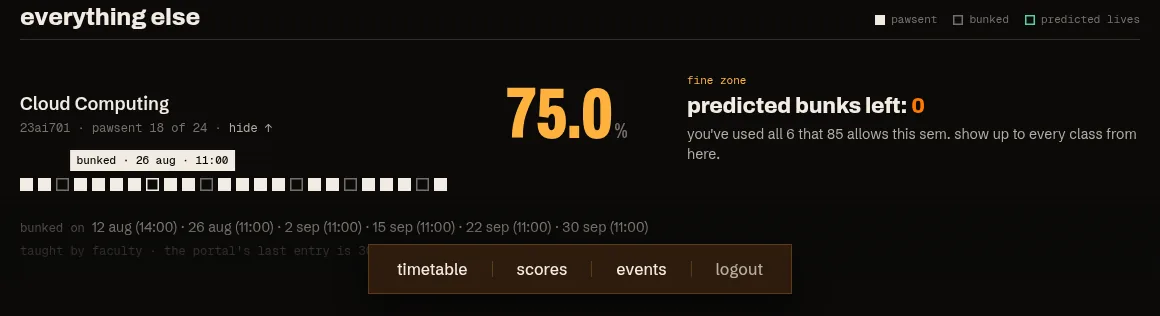
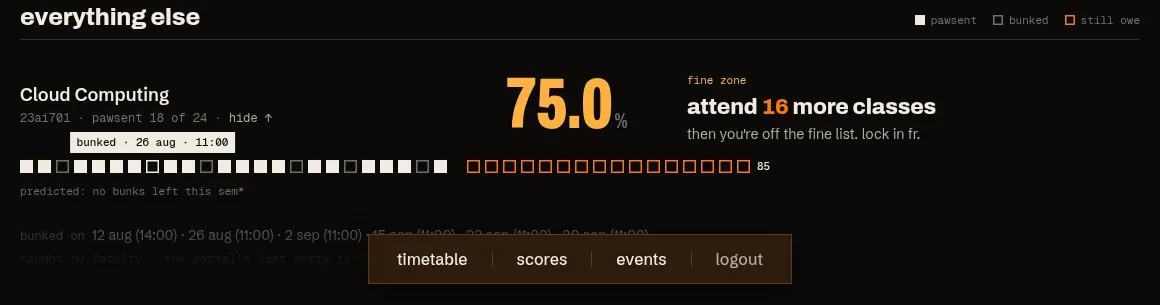
fix(web): "attend N more" is the verdict again; predicted bunks are a small extra
Max: predicting bunks in the headline talks people out of classes.
- The main verdict, colours and orange still-owe boxes are back to "attend N
  more classes" (75 / 85). The boxes keep their real class order and dates.
- Predicted bunks are one small line under every course ("predicted: 2 bunks
  left this sem*"), with the disclaimer in "facts to know": teachers rarely
  take or enter every planned class, so don't plan bunks around it.
- The green lives squares and the "predicted lives" key are gone.

Claude-Session: https://claude.ai/code/session_01Xzv7yBMPGxtcxQE7zWcD5o

diff --git a/web/src/components/Dashboard.tsx b/web/src/components/Dashboard.tsx
@@ -1,4 +1,4 @@
-import { semOf, squares } from "../lib/history";
+import { semTotal, squares } from "../lib/history";
 import type { Attendance, Course } from "../lib/types";
 import { byPercent } from "../lib/verdict";
 import { CourseRow } from "./CourseRow";
@@ -12,7 +12,7 @@ export function Dashboard({ data, open, onOpen, loading }: Props) {
   const [worst, ...rest] = byPercent(data.courses);
   const toggle = (code: string) => () => onOpen(open === code ? null : code);
   const dated = (c: Course) => squares(c.attended, c.conducted, data.history?.[c.code]?.classes);
-  const sem = (c: Course) => semOf(c, data.history?.[c.code]);
+  const total = (c: Course) => semTotal(data.history?.[c.code]);
   const panel = (code: string) =>
     open === code && (
       <div className={`border-b border-hair ${code === worst?.code ? "pt-4" : ""}`}>
@@ -21,7 +21,7 @@ export function Dashboard({ data, open, onOpen, loading }: Props) {
     );
   return (
     <>
-      {worst && <Slab course={worst} classes={dated(worst)} sem={sem(worst)} open={open === worst.code} onToggle={toggle(worst.code)} />}
+      {worst && <Slab course={worst} classes={dated(worst)} total={total(worst)} open={open === worst.code} onToggle={toggle(worst.code)} />}
       {worst && panel(worst.code)}
 
       {rest.length > 0 && (
@@ -31,16 +31,12 @@ export function Dashboard({ data, open, onOpen, loading }: Props) {
             <div aria-label="Tally key" className="flex flex-wrap gap-4 font-mono text-[11px] text-mut">
               <span className="inline-flex items-center gap-1.5"><i className="inline-block h-2.5 w-2.5 bg-ink" />pawsent</span>
               <span className="inline-flex items-center gap-1.5"><i className="inline-block h-2.5 w-2.5 shadow-[inset_0_0_0_1.5px_var(--color-mut)]" />bunked</span>
-              {rest.every((c) => sem(c)) ? (
-                <span className="inline-flex items-center gap-1.5"><i className="inline-block h-2.5 w-2.5 shadow-[inset_0_0_0_1.5px_var(--color-safe)]" />predicted lives</span>
-              ) : (
-                <span className="inline-flex items-center gap-1.5"><i className="inline-block h-2.5 w-2.5 shadow-[inset_0_0_0_1.5px_var(--color-orange)]" />still owe</span>
-              )}
+              <span className="inline-flex items-center gap-1.5"><i className="inline-block h-2.5 w-2.5 shadow-[inset_0_0_0_1.5px_var(--color-orange)]" />still owe</span>
             </div>
           </div>
           {rest.map((c) => (
             <div key={c.code}>
-              <CourseRow course={c} classes={dated(c)} sem={sem(c)} open={open === c.code} onToggle={toggle(c.code)} />
+              <CourseRow course={c} classes={dated(c)} total={total(c)} open={open === c.code} onToggle={toggle(c.code)} />
               {panel(c.code)}
             </div>
           ))}
@@ -56,6 +52,10 @@ export function Dashboard({ data, open, onOpen, loading }: Props) {
             the bill. <strong className="text-ink">we don't.</strong>
           </p>
           <p>use your own usn. stalking on someone else's is weird without their permission. don't be that guy.</p>
+          <p>
+            * predicted bunks count the classes the portal plans for the whole sem. teachers rarely take or enter all of them, so
+            it's mostly right, not a promise. <strong className="text-ink">don't plan your bunks around it.</strong>
+          </p>
         </div>
       </footer>
     </>

diff --git a/web/src/lib/verdict.test.ts b/web/src/lib/verdict.test.ts
@@ -1,5 +1,5 @@
 import { describe, expect, it } from "vitest";
-import { byPercent, semVerdict, verdict, zoneOf } from "./verdict";
+import { byPercent, predicted, verdict, zoneOf } from "./verdict";
 import type { Course } from "./types";
 
 // Numbers as the Go API returns them for the scrubbed fixture.
@@ -53,38 +53,21 @@ describe("byPercent", () => {
   });
 });
 
-describe("semVerdict (from the sem's total classes, so stale portal counts don't cause panic)", () => {
+describe("predicted (the small extra line; the main verdict stays 'attend N')", () => {
   const c = (attended: number, conducted: number) =>
     ({ code: "X", name: "X", credits: 3, attended, conducted, percent: (attended / conducted) * 100, need75: 0, need85: 0, skip85: 0 });
+  // 45 classes: 85% lets you miss 6, 75% lets you miss 11
   it("counts the bunks the whole sem still allows for 85", () => {
-    // 45 classes: 85% lets you miss 6; 5 missed → 1 left
-    const v = semVerdict(c(20, 25), 45);
-    expect(v.head).toEqual({ before: "predicted bunks left: ", n: 1, after: "" });
-    expect(v.zone).toBe("fine");
-    expect(v.sub).toBe(
-      "5 bunked so far, of the 6 that 85 allows across the sem's 45 classes. mostly right, but teachers rarely take or enter every class, so don't spend them all.",
-    );
+    expect(predicted(c(20, 25), 45)).toEqual({ n: 1, line: "predicted: 1 bunk left this sem" });
+    expect(predicted(c(10, 14), 45)).toEqual({ n: 2, line: "predicted: 2 bunks left this sem" });
   });
-  it("is calm early in the sem even when today's % looks bad", () => {
-    const v = semVerdict(c(10, 14), 45); // 71% today, but only 4 missed of the 6 allowed
-    expect(v.head.n).toBe(2);
-    expect(v.zone).toBe("fine");
-  });
-  it("is safe when you're above 85 and still have bunks", () => {
-    expect(semVerdict(c(24, 25), 45).zone).toBe("safe");
-  });
-  it("says zero when the budget is used up", () => {
-    const v = semVerdict(c(19, 25), 45);
-    expect(v.head).toEqual({ before: "predicted bunks left: ", n: 0, after: "" });
+  it("says none when the 85 budget is used up", () => {
+    expect(predicted(c(19, 25), 45)).toEqual({ n: 0, line: "predicted: no bunks left this sem" });
   });
   it("falls back to 75 once 85 is gone", () => {
-    const v = semVerdict(c(16, 25), 45); // 9 missed: 85 allowed 6, 75 allows 11
-    expect(v.head).toEqual({ before: "85's gone. predicted bunks before 75: ", n: 2, after: "" });
-    expect(v.zone).toBe("fine");
+    expect(predicted(c(16, 25), 45)).toEqual({ n: 2, line: "predicted: 85's gone, 2 bunks left before 75" });
   });
-  it("says cooked past the 75 budget", () => {
-    const v = semVerdict(c(10, 25), 45); // 15 missed > 11
-    expect(v.zone).toBe("dead");
-    expect(v.head.n).toBeNull();
+  it("says so when even 75 is out of reach", () => {
+    expect(predicted(c(10, 25), 45)).toEqual({ n: 0, line: "predicted: even 75's out of reach this sem" });
   });
 });

diff --git a/web/src/lib/verdict.ts b/web/src/lib/verdict.ts
@@ -70,45 +70,19 @@ export function byPercent(courses: Course[]): Course[] {
 }
 
 /**
- * The verdict from the whole sem instead of "classes in a row": the portal's
- * planned total for the course (holidays already left out) sets how many bunks
- * 85 (or 75) allows all sem. Calm early in the sem, and not thrown by the
- * portal being weeks behind on entering classes.
+ * The predicted bunks the whole sem still allows, from the portal's planned
+ * total (holidays already left out). An extra under each course, never the
+ * main verdict: a prediction mustn't talk anyone out of classes. Its
+ * disclaimer lives in the dashboard's "facts to know".
  */
-/** Bunks the whole sem still allows: for 85, or for 75 once 85 is gone (negative: over even 75's). */
-export function semBudget(c: Course, total: number) {
+export function predicted(c: Course, total: number): { n: number; line: string } {
   const missed = c.conducted - c.attended;
-  const allow85 = Math.floor(total * 0.15 + 1e-9);
-  const allow75 = Math.floor(total * 0.25 + 1e-9);
-  return { missed, allow85, allow75, b85: allow85 - missed, b75: allow75 - missed };
-}
-
-export function semVerdict(c: Course, total: number): Verdict {
-  const { missed, allow85, allow75, b85, b75 } = semBudget(c, total);
-  if (b85 > 0) {
-    return {
-      zone: c.percent >= 85 ? "safe" : "fine",
-      head: { before: "predicted bunks left: ", n: b85, after: "" },
-      sub: `${missed} bunked so far, of the ${allow85} that 85 allows across the sem's ${total} classes. mostly right, but teachers rarely take or enter every class, so don't spend them all.`,
-    };
-  }
-  if (b85 === 0) {
-    return {
-      zone: "fine",
-      head: { before: "predicted bunks left: ", n: 0, after: "" },
-      sub: `you've used all ${allow85} that 85 allows this sem. show up to every class from here.`,
-    };
-  }
-  if (b75 >= 0) {
-    return {
-      zone: "fine",
-      head: { before: "85's gone. predicted bunks before 75: ", n: b75, after: "" },
-      sub: `${missed} missed, 85 only allowed ${allow85}. that's the fine. it's a prediction, so hold 75 with room to spare.`,
-    };
-  }
-  return {
-    zone: "dead",
-    head: { before: "cooked for the sem", n: null, after: "" },
-    sub: `${missed} missed, more than the ${allow75} even 75 allows. talk to your faculty.`,
-  };
+  const b85 = Math.floor(total * 0.15 + 1e-9) - missed;
+  const b75 = Math.floor(total * 0.25 + 1e-9) - missed;
+  const bunks = (n: number) => `${n} ${n === 1 ? "bunk" : "bunks"}`;
+  if (b85 > 0) return { n: b85, line: `predicted: ${bunks(b85)} left this sem` };
+  if (b85 === 0) return { n: 0, line: "predicted: no bunks left this sem" };
+  if (b75 > 0) return { n: b75, line: `predicted: 85's gone, ${bunks(b75)} left before 75` };
+  if (b75 === 0) return { n: 0, line: "predicted: 85's gone, no bunks left before 75" };
+  return { n: 0, line: "predicted: even 75's out of reach this sem" };
 }

diff --git a/web/src/components/Tally.tsx b/web/src/components/Tally.tsx
@@ -2,14 +2,12 @@ import { isoDayMonth } from "../lib/dates";
 import type { ClassRecord, Course } from "../lib/types";
 import type { Zone } from "../lib/verdict";
 
-/** Bunks the sem still allows: shown as lives instead of "classes in a row" squares. */
-type Budget = { n: number; label: string };
-type Props = { course: Course; zone: Zone; classes?: ClassRecord[] | null; budget?: Budget | null; onSlab?: boolean; pop?: boolean; className?: string };
+type Props = { course: Course; zone: Zone; classes?: ClassRecord[] | null; onSlab?: boolean; pop?: boolean; className?: string };
 
 const tip = (c: ClassRecord) => `${c.present ? "pawsent" : "bunked"} · ${isoDayMonth(c.date)} · ${c.start}`;
 
 /** One square per class: filled = attended, hollow = bunked, orange outline = classes still owed. */
-export function Tally({ course: c, zone, classes, budget, onSlab, pop, className = "" }: Props) {
+export function Tally({ course: c, zone, classes, onSlab, pop, className = "" }: Props) {
   const sq: React.ReactNode[] = [];
   let k = 0;
   if (classes) {
@@ -25,13 +23,7 @@ export function Tally({ course: c, zone, classes, budget, onSlab, pop, className
     sq.push(<b key={`${prefix}l`}>{label}</b>);
   };
 
-  if (budget) {
-    if (budget.n > 0) {
-      sq.push(<span key="g" className="gap" />);
-      for (let i = 0; i < budget.n; i++) sq.push(<i key={`s${i}`} className="sk" />);
-      sq.push(<b key="sl">{budget.label}</b>);
-    }
-  } else if (zone === "dead") {
+  if (zone === "dead") {
     sq.push(<span key="g" className="gap" />);
     owe(c.need75, "75", "n");
     owe(c.need85 - c.need75, "85", "f");
@@ -45,7 +37,7 @@ export function Tally({ course: c, zone, classes, budget, onSlab, pop, className
   }
 
   const label = `${c.attended} attended, ${c.conducted - c.attended} bunked` +
-    (budget ? `, ${Math.max(0, budget.n)} more bunks the sem allows` : zone === "dead" ? `, ${c.need75} more to reach 75, ${c.need85} to reach 85` : zone === "fine" ? `, ${c.need85} more to reach 85` : "");
+    (zone === "dead" ? `, ${c.need75} more to reach 75, ${c.need85} to reach 85` : zone === "fine" ? `, ${c.need85} more to reach 85` : "");
 
   return (
     <div role="img" aria-label={label} className={`tally ${onSlab ? "on-slab" : ""} ${pop ? "pop" : ""} ${className}`}>

diff --git a/web/src/components/CourseRow.tsx b/web/src/components/CourseRow.tsx
@@ -1,6 +1,5 @@
 import type { ClassRecord, Course } from "../lib/types";
-import type { Sem } from "../lib/history";
-import { fmtPct, semVerdict, verdict, zoneName } from "../lib/verdict";
+import { fmtPct, predicted, verdict, zoneName } from "../lib/verdict";
 import { Headline } from "./Headline";
 import { Tally } from "./Tally";
 
@@ -21,10 +20,11 @@ export const toggleProps = (open: boolean, onToggle: () => void, label: string) 
   },
 });
 
-type RowProps = { course: Course; classes: ClassRecord[] | null; sem: Sem | null; open: boolean; onToggle: () => void };
+type RowProps = { course: Course; classes: ClassRecord[] | null; total: number | null; open: boolean; onToggle: () => void };
 
-export function CourseRow({ course, classes, sem, open, onToggle }: RowProps) {
-  const v = sem ? semVerdict(course, sem.total) : verdict(course);
+export function CourseRow({ course, classes, total, open, onToggle }: RowProps) {
+  const v = verdict(course);
+  const guess = total ? predicted(course, total) : null; // an extra, never the main verdict
   return (
     <div
       {...toggleProps(open, onToggle, `${course.name}: ${open ? "hide" : "show"} every class`)}
@@ -48,7 +48,8 @@ export function CourseRow({ course, classes, sem, open, onToggle }: RowProps) {
         </b>
         <span className="mt-1 block text-sm text-ink-2">{v.sub}</span>
       </div>
-      <Tally course={course} zone={v.zone} classes={classes} budget={sem?.budget} className="col-span-full text-ink" />
+      <Tally course={course} zone={v.zone} classes={classes} className="col-span-full text-ink" />
+      {guess && <p className="col-span-full -mt-1.5 font-mono text-[11px] text-mut">{guess.line}*</p>}
     </div>
   );
 }

diff --git a/web/src/components/Slab.tsx b/web/src/components/Slab.tsx
@@ -1,7 +1,6 @@
 import { useEffect, useState } from "react";
 import type { ClassRecord, Course } from "../lib/types";
-import type { Sem } from "../lib/history";
-import { fmtPct, semVerdict, verdict, zoneName } from "../lib/verdict";
+import { fmtPct, predicted, verdict, zoneName } from "../lib/verdict";
 import { Headline } from "./Headline";
 import { toggleProps } from "./CourseRow";
 import { Tally } from "./Tally";
@@ -28,10 +27,11 @@ function useCountUp(target: number): number {
 }
 
 /** Your worst subject, as a slab in its zone's color. */
-type SlabProps = { course: Course; classes: ClassRecord[] | null; sem: Sem | null; open: boolean; onToggle: () => void };
+type SlabProps = { course: Course; classes: ClassRecord[] | null; total: number | null; open: boolean; onToggle: () => void };
 
-export function Slab({ course, classes, sem, open, onToggle }: SlabProps) {
-  const v = sem ? semVerdict(course, sem.total) : verdict(course);
+export function Slab({ course, classes, total, open, onToggle }: SlabProps) {
+  const v = verdict(course);
+  const guess = total ? predicted(course, total) : null; // an extra, never the main verdict
   const shown = useCountUp(course.percent);
 
   return (
@@ -72,7 +72,8 @@ export function Slab({ course, classes, sem, open, onToggle }: SlabProps) {
         )}
       </div>
 
-      <Tally course={course} zone={v.zone} classes={classes} budget={sem?.budget} onSlab pop className="col-span-full mt-5" />
+      <Tally course={course} zone={v.zone} classes={classes} onSlab pop className="col-span-full mt-5" />
+      {guess && <p className="col-span-full -mt-4 font-mono text-[11px] opacity-70 md:mt-2">{guess.line}*</p>}
     </section>
   );
 }

diff --git a/web/src/lib/history.test.ts b/web/src/lib/history.test.ts
@@ -1,24 +1,17 @@
 import { describe, expect, it } from "vitest";
-import { semOf, squares } from "./history";
+import { semTotal, squares } from "./history";
 import { partLabel, seeMin } from "./scores";
 import type { ClassRecord } from "./types";
 
 const cls = (date: string, present = true, start = "11:00"): ClassRecord => ({ date, start, end: "12:00", present });
 
-describe("semOf", () => {
-  const course = (attended: number, conducted: number) =>
-    ({ code: "X", name: "X", credits: 3, attended, conducted, percent: (attended / conducted) * 100, need75: 0, need85: 0, skip85: 0 });
+describe("semTotal", () => {
   const hist = (present: number, absent: number, stillToGo: number) =>
     ({ code: "X", name: "X", faculty: "", present, absent, stillToGo, classes: [] });
-  it("takes the sem total from the portal's plan and turns the bunks left into lives", () => {
-    expect(semOf(course(20, 25), hist(20, 5, 20))).toEqual({ total: 45, budget: { n: 1, label: "life" } });
-  });
-  it("counts toward 75 once 85 is gone, and nothing past that", () => {
-    expect(semOf(course(16, 25), hist(16, 9, 20))?.budget).toEqual({ n: 2, label: "before 75" });
-    expect(semOf(course(10, 25), hist(10, 15, 20))?.budget).toEqual({ n: 0, label: "" });
-  });
-  it("needs the history", () => {
-    expect(semOf(course(20, 25), undefined)).toBeNull();
+  it("is the portal's plan for the sem: present + absent + still to go", () => {
+    expect(semTotal(hist(20, 5, 20))).toBe(45);
+    expect(semTotal(hist(0, 0, 0))).toBeNull();
+    expect(semTotal(undefined)).toBeNull();
   });
 });
 

diff --git a/web/src/lib/history.ts b/web/src/lib/history.ts
@@ -1,16 +1,10 @@
-import type { ClassRecord, Course, CourseHistory } from "./types";
-import { semBudget } from "./verdict";
+import type { ClassRecord, CourseHistory } from "./types";
 
-/** The sem view of a course once its history is in: the planned total, and the bunks it allows. */
-export type Sem = { total: number; budget: { n: number; label: string } };
-
-export function semOf(c: Course, h: CourseHistory | null | undefined): Sem | null {
+/** The portal's planned classes for the whole sem (holidays already left out), once the history is in. */
+export function semTotal(h: CourseHistory | null | undefined): number | null {
   if (!h) return null;
-  const total = h.present + h.absent + h.stillToGo; // the portal's plan for the sem, holidays already left out
-  if (total <= 0) return null;
-  const b = semBudget(c, total);
-  const budget = b.b85 >= 0 ? { n: b.b85, label: b.b85 === 1 ? "life" : "lives" } : b.b75 >= 0 ? { n: b.b75, label: "before 75" } : { n: 0, label: "" };
-  return { total, budget };
+  const total = h.present + h.absent + h.stillToGo;
+  return total > 0 ? total : null;
 }
 
 /**

diff --git a/CLAUDE.md b/CLAUDE.md
@@ -58,11 +58,12 @@ Full plan & confirmed portal facts: `~/.claude/plans/meowance-attendance-portal.
 ## Conventions
 
 - **MCE rules:** 85%+ safe ("purring"); 75–85 fine zone (pays a fine unless back to 85); under 75 dead
-  zone (teachers cap at 75). Verdicts count **classes**, never days. Once a course's history
-  is in, the verdict uses the portal's planned total for the sem (present + absent + still to go,
-  holidays already left out; checked against the real calendar 2026-11-13): "you can bunk N more
-  this sem" = 15% of the total minus bunks so far. Never "attend N to stay": the portal is often
-  weeks behind on entering classes, so its "still to go" count is stale.
+  zone (teachers cap at 75). Verdicts count **classes**, never days. The main verdict is
+  "attend N more" (to 75 / 85), with the orange still-owe boxes. Predicted bunks (15% of the portal's
+  planned total for the sem, minus bunks so far; the total leaves holidays out, checked against the
+  real calendar 2026-11-13) are only a small extra line under each course, with the disclaimer in
+  "facts to know": a prediction mustn't talk anyone out of classes, and teachers rarely take or
+  enter every planned class. Never use the portal's "still to go" as classes really left: it's stale.
 - **UI:** dark only, sharp corners, no boxed cards (rows split by hairlines), one loud element per
   screen, bottom nav is an overlay with its own solid background (it mustn't blend in). No endless
   scroll: secondary content goes in sub-tabs or collapsibles. Tests are "cie", never "se". Copy is lowercase, dry gen-z; cat puns welcome

diff --git a/README.md b/README.md
@@ -24,10 +24,10 @@ in it is invented. It is nobody's real record.
 ## What it shows
 
 - **Dashboard:** every course's attendance, worst first. Each class is a box in real order:
-  filled = pawsent, hollow = bunked, green = predicted bunks left. The verdict comes from the
-  sem's total classes ("predicted bunks left: 1"), so it stays sane even when the portal is weeks
-  behind on entering classes. It's a prediction: teachers rarely take or enter every planned
-  class, so it's mostly right, not a promise.
+  filled = pawsent, hollow = bunked, orange = classes still to attend to reach 75 or 85
+  ("attend 3 more classes"). Under each course, a small extra line predicts the bunks the whole
+  sem still allows, from the portal's planned classes. It's only a prediction: teachers rarely take
+  or enter every planned class, so it never replaces the "attend" verdict.
 - **Timetable:** this week, one day at a time, each class tagged by whether that subject can afford a bunk.
 - **Scores:** this sem's CIE marks and the minimum to sit the SEE; past sems' grades, SGPA and CGPA.
 - **Events:** the semester calendar: what's next, working days left.
